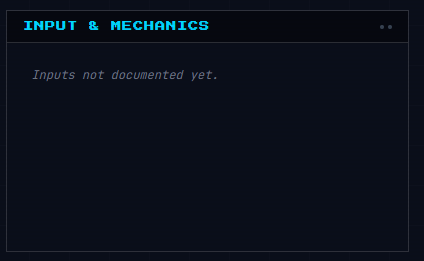
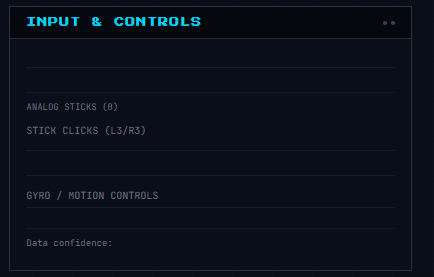
Refine Input Mechanics UI and Admin Layout
- Updated `ConsoleDetailView.tsx` to reorder D-Pad fields (Shape, Tech, Placement) and strictly hide "Analog Sticks" and "Gyro" sections if data is null/undefined, ensuring a cleaner UI for incomplete records.
- Updated `lib/config/constants.ts` to reorder D-Pad fields in the Admin Console to match the UI and ensure they are on the same visual row.
- Updated options for `dpad_placement` to include 'top' and 'bottom' as requested.
- Verified build.

diff --git a/components/console/ConsoleDetailView.tsx b/components/console/ConsoleDetailView.tsx
@@ -461,8 +461,8 @@ const ConsoleDetailView: FC<ConsoleDetailViewProps> = ({ consoleData }) => {
                                     <>
                                         {/* D-Pad */}
                                         <div className="grid grid-cols-2 gap-4">
-                                            <SpecField label="D-pad tech" value={formatInputEnum('rc_button_tech', mergedSpecs.variant_input_profile.dpad_tech)} small />
                                             <SpecField label="D-pad shape" value={formatInputEnum('rc_dpad_shape', mergedSpecs.variant_input_profile.dpad_shape)} small />
+                                            <SpecField label="D-pad tech" value={formatInputEnum('rc_button_tech', mergedSpecs.variant_input_profile.dpad_tech)} small />
                                         </div>
                                         {mergedSpecs.variant_input_profile.dpad_placement && (
                                             <SpecField label="D-pad placement" value={formatInputEnum('rc_placement', mergedSpecs.variant_input_profile.dpad_placement)} small />
@@ -481,20 +481,22 @@ const ConsoleDetailView: FC<ConsoleDetailViewProps> = ({ consoleData }) => {
                                         </div>
 
                                         {/* Analog Sticks */}
-                                        <div className="mt-3 pt-2 border-t border-white/5">
-                                            <div className="text-[9px] text-gray-500 uppercase mb-1">Analog sticks ({mergedSpecs.variant_input_profile.stick_count || 0})</div>
-                                            <div className="grid grid-cols-2 gap-4">
-                                                <SpecField label="Stick tech" value={formatInputEnum('rc_button_tech', mergedSpecs.variant_input_profile.stick_tech)} small />
-                                                <SpecField label="Stick layout" value={formatInputEnum('rc_stick_layout', mergedSpecs.variant_input_profile.stick_layout)} small />
-                                            </div>
-                                            <div className="grid grid-cols-2 gap-4 mt-1">
-                                                <SpecField label="Stick cap" value={formatInputEnum('rc_stick_cap', mergedSpecs.variant_input_profile.stick_cap)} small />
-                                                <div className="flex items-center">
-                                                    <span className="font-mono text-[10px] text-gray-500 uppercase mr-2">Stick clicks (L3/R3)</span>
-                                                    <TechBadge label="YES" active={mergedSpecs.variant_input_profile.stick_clicks} />
+                                        {(mergedSpecs.variant_input_profile.stick_count !== undefined && mergedSpecs.variant_input_profile.stick_count !== null) && (
+                                            <div className="mt-3 pt-2 border-t border-white/5">
+                                                <div className="text-[9px] text-gray-500 uppercase mb-1">Analog sticks ({mergedSpecs.variant_input_profile.stick_count})</div>
+                                                <div className="grid grid-cols-2 gap-4">
+                                                    <SpecField label="Stick tech" value={formatInputEnum('rc_button_tech', mergedSpecs.variant_input_profile.stick_tech)} small />
+                                                    <SpecField label="Stick layout" value={formatInputEnum('rc_stick_layout', mergedSpecs.variant_input_profile.stick_layout)} small />
+                                                </div>
+                                                <div className="grid grid-cols-2 gap-4 mt-1">
+                                                    <SpecField label="Stick cap" value={formatInputEnum('rc_stick_cap', mergedSpecs.variant_input_profile.stick_cap)} small />
+                                                    <div className="flex items-center">
+                                                        <span className="font-mono text-[10px] text-gray-500 uppercase mr-2">Stick clicks (L3/R3)</span>
+                                                        <TechBadge label="YES" active={mergedSpecs.variant_input_profile.stick_clicks} />
+                                                    </div>
                                                 </div>
                                             </div>
-                                        </div>
+                                        )}
 
                                         {/* Bumpers & Triggers */}
                                         <div className="mt-3 pt-2 border-t border-white/5">
@@ -510,10 +512,12 @@ const ConsoleDetailView: FC<ConsoleDetailViewProps> = ({ consoleData }) => {
                                         <div className="mt-3 pt-2 border-t border-white/5">
                                             <SpecField label="Back buttons" value={mergedSpecs.variant_input_profile.back_button_count} small />
 
-                                            <div className="flex items-center justify-between py-1 border-b border-white/5 mb-2">
-                                                <span className="font-mono text-[10px] text-gray-500 uppercase">Gyro / motion controls</span>
-                                                <TechBadge label="ENABLED" active={mergedSpecs.variant_input_profile.has_gyro} />
-                                            </div>
+                                            {mergedSpecs.variant_input_profile.has_gyro !== null && (
+                                                <div className="flex items-center justify-between py-1 border-b border-white/5 mb-2">
+                                                    <span className="font-mono text-[10px] text-gray-500 uppercase">Gyro / motion controls</span>
+                                                    <TechBadge label="ENABLED" active={mergedSpecs.variant_input_profile.has_gyro} />
+                                                </div>
+                                            )}
 
                                             {mergedSpecs.variant_input_profile.has_keyboard && (
                                                 <div className="grid grid-cols-2 gap-4 mb-2">

diff --git a/lib/config/constants.ts b/lib/config/constants.ts
@@ -133,17 +133,16 @@ export const VARIANT_FORM_GROUPS = [
         fields: [
             // DPAD
             { subHeader: 'D-pad' },
-            { label: 'D-Pad Tech', key: 'dpad_tech', type: 'select', required: false, width: 'third', options: ['membrane', 'microswitch', 'mechanical', 'hall', 'potentiometer', 'spring', 'optical', 'unknown'] },
             { label: 'D-Pad Shape', key: 'dpad_shape', type: 'select', required: false, width: 'third', options: ['cross', 'disc', 'segmented', 'unknown'] },
+            { label: 'D-Pad Tech', key: 'dpad_tech', type: 'select', required: false, width: 'third', options: ['membrane', 'microswitch', 'mechanical', 'hall', 'potentiometer', 'spring', 'optical', 'unknown'] },
             { label: 'Placement', key: 'dpad_placement', type: 'select', required: false, width: 'third', options: ['left', 'right', 'center', 'top', 'bottom', 'unknown'] },
 
             // PRIMARY INPUTS
             { subHeader: 'Core Controls' },
             { label: 'Face Btn Count', key: 'face_button_count', type: 'select', required: false, width: 'third', options: ['2', '4', '6'] },
             { label: 'Face Layout', key: 'face_button_layout', type: 'select', required: false, width: 'third', options: ['diamond', 'inline', 'arcade_6', 'split', 'unknown'] },
-            { label: 'Label Scheme', key: 'face_label_scheme', type: 'select', required: false, width: 'third', options: ['nintendo', 'xbox', 'playstation', 'generic', 'unknown'] },
-
-            { label: 'Face Btn Tech', key: 'face_button_tech', type: 'select', required: false, width: 'half', options: ['membrane', 'microswitch', 'mechanical', 'hall', 'potentiometer', 'spring', 'optical', 'unknown'] },
+            { label: 'Face Btn Tech', key: 'face_button_tech', type: 'select', required: false, width: 'third', options: ['membrane', 'microswitch', 'mechanical', 'hall', 'potentiometer', 'spring', 'optical', 'unknown'] },
+            { label: 'Label Scheme', key: 'face_label_scheme', type: 'select', required: false, width: 'full', options: ['nintendo', 'xbox', 'playstation', 'generic', 'unknown'] },
 
             // STICKS
             { subHeader: 'Analog Sticks' },
